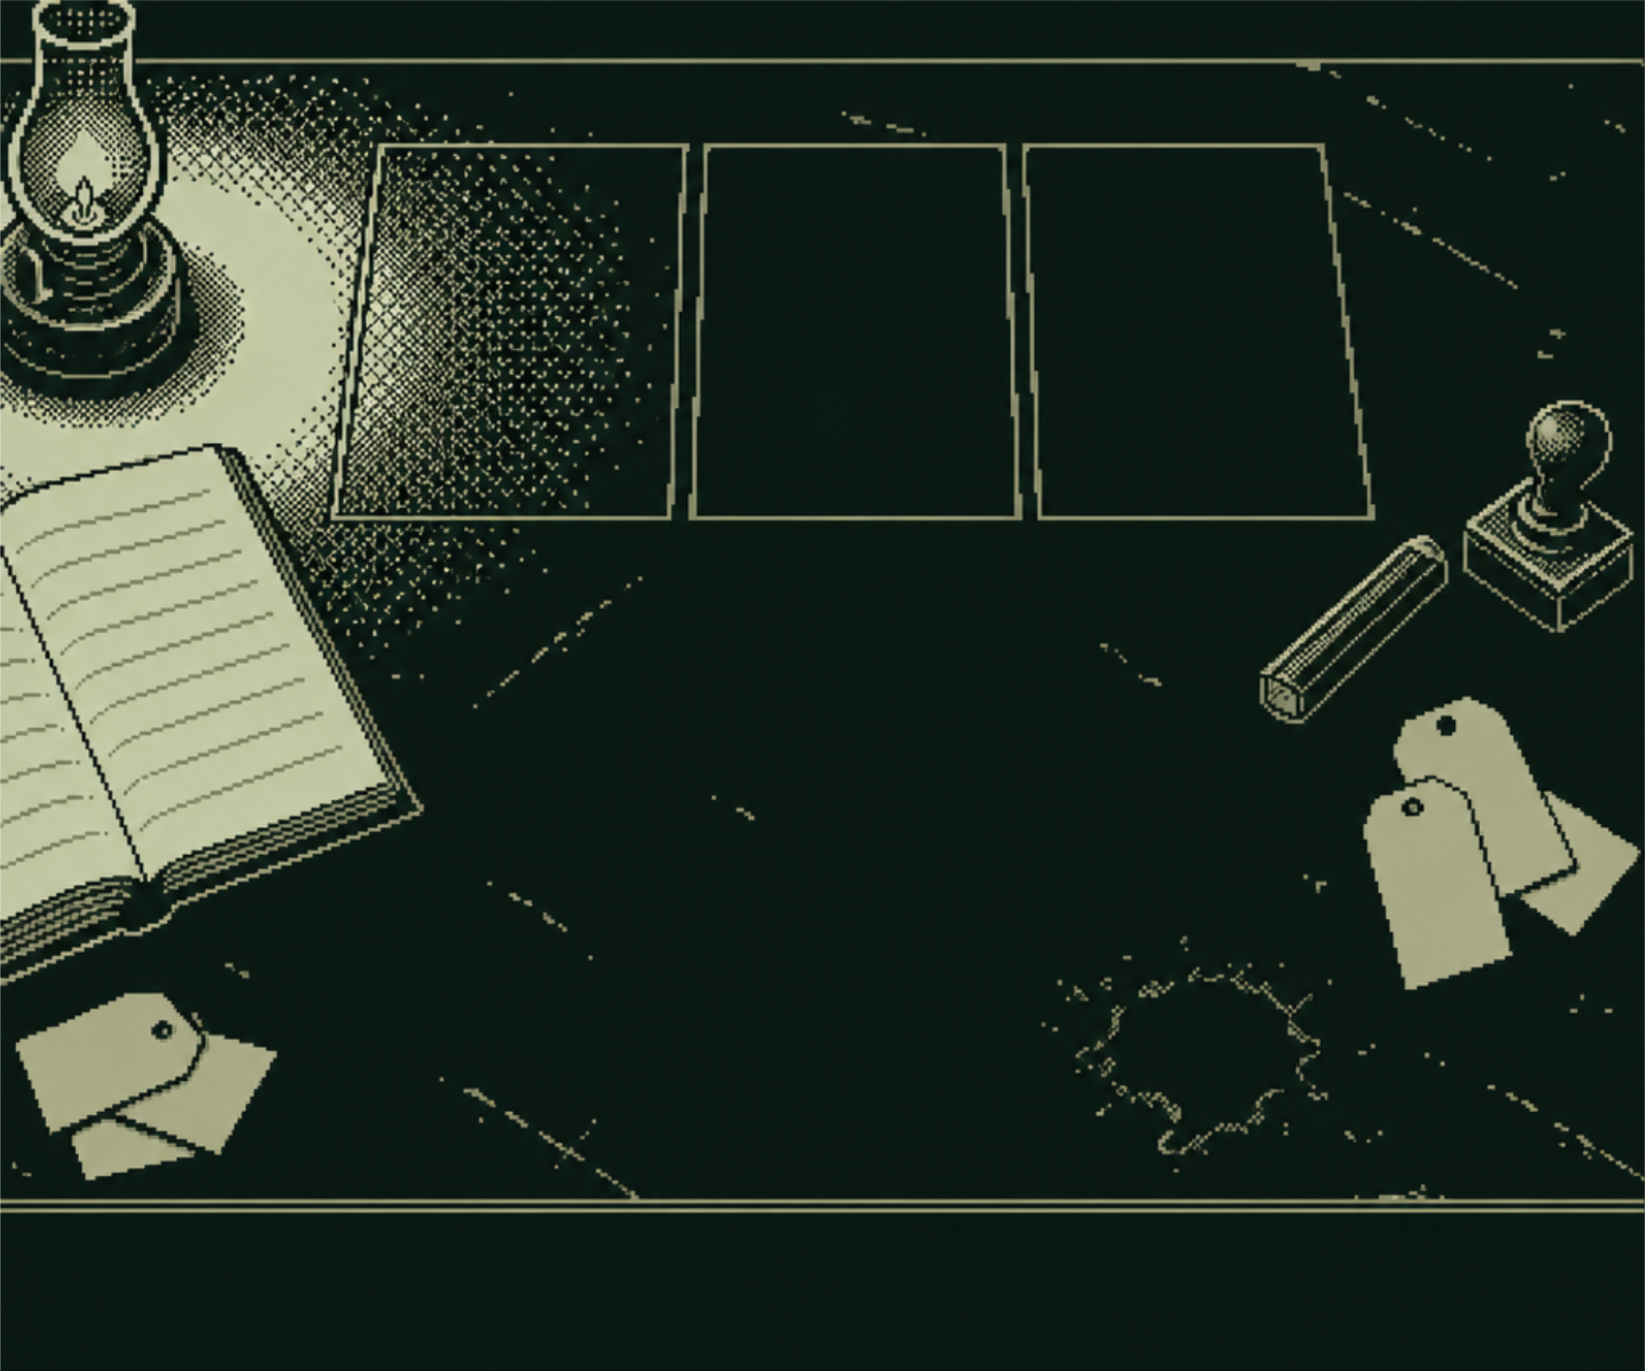
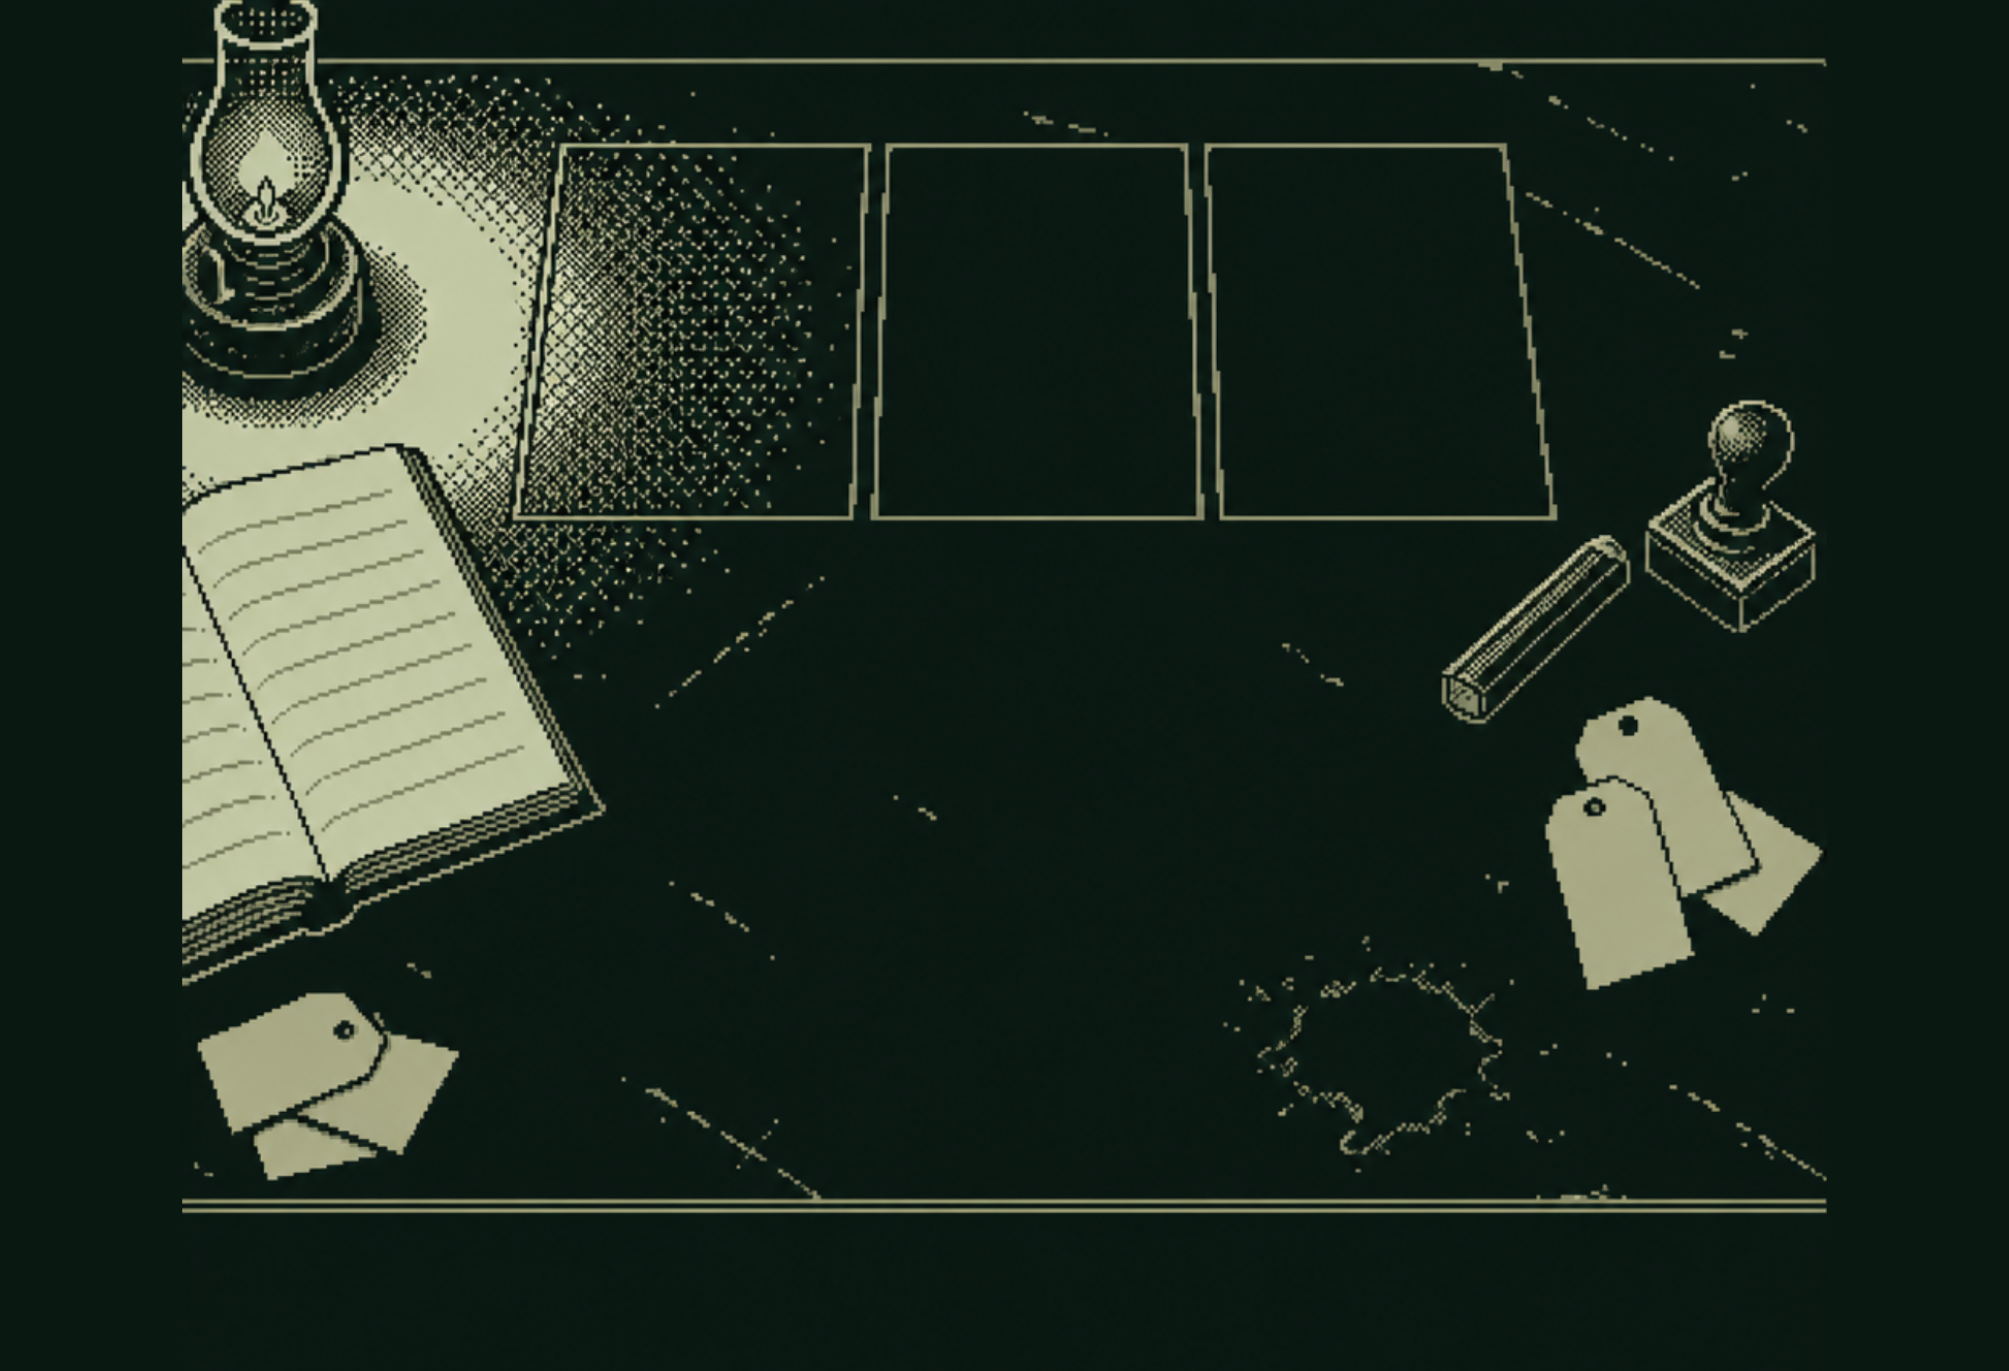
[codex] M05: preserve bench art aspect ratio

diff --git a/src/scenes/phases/OfficePhase.ts b/src/scenes/phases/OfficePhase.ts
@@ -27,10 +27,11 @@ const SLOT_NAMES = ['무기', '방어구', '기타'] as const;
 const INVENTORY_COLUMNS = 4;
 const INVENTORY_VISIBLE_ROWS = 2;
 // 새 작업대 원화의 세 사각 홈을 1920×1080 편성실 좌표로 옮긴 값.
+// 원화를 가로 캔버스에 여백으로 확장했으므로, 그림의 실제 비율을 보존한다.
 const SHELF_SLOTS = [
-  { x: 1013, y: 227, w: 226, h: 218 },
-  { x: 1247, y: 227, w: 214, h: 218 },
-  { x: 1473, y: 227, w: 214, h: 218 },
+  { x: 1074, y: 227, w: 182, h: 218 },
+  { x: 1263, y: 227, w: 175, h: 218 },
+  { x: 1448, y: 227, w: 176, h: 218 },
 ] as const;
 
 export class OfficePhase extends PhaseScene {
@@ -416,22 +417,22 @@ export class OfficePhase extends PhaseScene {
       ? `<HEAL>\nHP +${item.healing}`
       : `<${slotName}>\n${this.itemStats(item)}`;
 
-    // 장비정보창_예상.png의 다섯 구획: 제목 → 아이콘/가격 → 스탯 → 특성 → 배치정보.
-    addBody(29, 28, this.clip(item.name, 286, 'body'), item.isRelic ? 'wax' : 'bone', 0.95);
-    addBody(344, 31, item.tier, item.isRelic ? 'wax' : 'bone', 0.95);
+    // 장비정보창_예상.png의 다섯 구획: 제목 → 아이콘/가격 → 스탯 → 특성 → 계승 정보.
+    addBody(29, 28, this.clip(item.name, 286, 'body'), item.isRelic ? 'wax' : 'bone', 1.1);
+    addBody(344, 31, item.tier, item.isRelic ? 'wax' : 'bone', 1.1);
     const icon = this.itemArt(item, { x: x + 42, y: y + 122, w: 128, h: 128 });
     if (icon !== null) {
       icon.setDepth(depth + 2);
       this.itemDetail.push(icon);
     }
-    addBody(205, 138, itemType, 'bone', 0.85);
-    addBody(205, 185, `${item.price.toLocaleString('en-US')} G`, 'bone', 1.1);
-    addBody(38, 286, statRows, 'bone', 0.75);
-    addLabel(38, 445, '특성');
-    addBody(38, 485, marks, item.isRelic ? 'wax' : 'bone', 0.85);
-    addLabel(38, 644, '배치 정보');
-    addBody(38, 684, `필요 칸  ${slotName}\n등급      ${item.tier}\n판매가    ${item.price.toLocaleString('en-US')} G`, 'dust', 0.76);
-    addBody(95, 878, '“EQUIP TO LIVE”', 'bone', 0.68);
+    addBody(205, 138, itemType, 'bone', 1.0);
+    addBody(205, 185, `${item.price.toLocaleString('en-US')} G`, 'bone', 1.25);
+    addBody(38, 286, statRows, 'bone', 0.95);
+    addLabel(38, 445, '특성', 'dust', 1.45);
+    addBody(38, 485, marks, item.isRelic ? 'wax' : 'bone', 1.0);
+    addLabel(38, 644, '계승 정보', 'dust', 1.45);
+    addBody(38, 684, `계승 가능  출연자\n장비 등급  ${item.tier}\n소유 상태  보관 중`, 'dust', 0.9);
+    addBody(95, 878, '“EQUIP TO LIVE”', 'bone', 0.78);
   }
 
   private hideItemDetail(): void {
